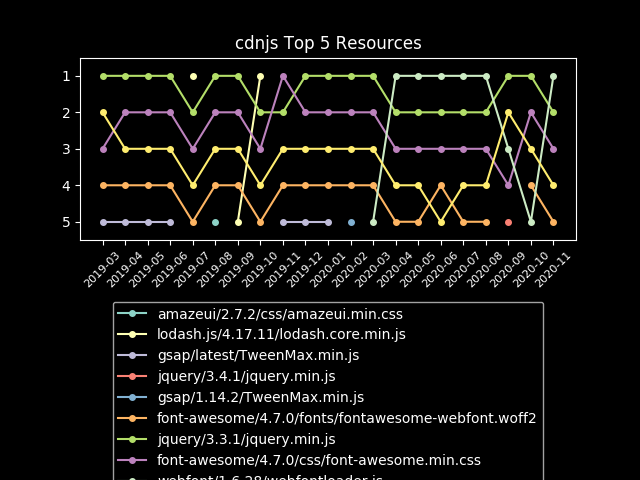
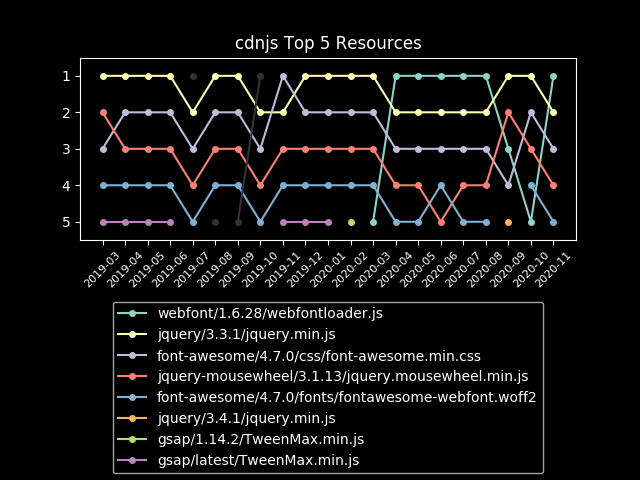
Script: Improve top 5 graph

Changed region(s): [[0.1562, 0.625, 0.8438, 1.0], [0.1562, 0.1562, 0.875, 0.4688]]

diff --git a/graph.py b/graph.py
@@ -80,13 +80,24 @@ def top_5_resources():
             else:
                 plot[file][1].append(None)
 
+    # Set the correct order (1 -> 5, newest -> oldest)
+    order = []
+    for month in list(by_month.keys())[::-1]:
+        for file in by_month[month]:
+            if file not in order:
+                order.append(file)
+
     # Do the plot
     plt.style.use("dark_background")
     fig, ax = plt.subplots()
     ax.set(ylim=(limit + 0.5, 0.5))
     ax.set_yticks(range(1, limit + 1)[::-1])
-    for file in plot:
-        ax.plot(*plot[file], label=file, marker="o", markersize=4)
+    for file in order:
+        ax.plot(*plot[file],
+                label=(file if file in order[:8] else None),
+                marker="o",
+                markersize=4,
+                color=(None if file in order[:8] else (0.2, 0.2, 0.2, 1)))
     ax.set_title("cdnjs Top 5 Resources")
     ax.tick_params(axis="x", labelsize=8, labelrotation=45)
     fig.subplots_adjust(bottom=0.5)
